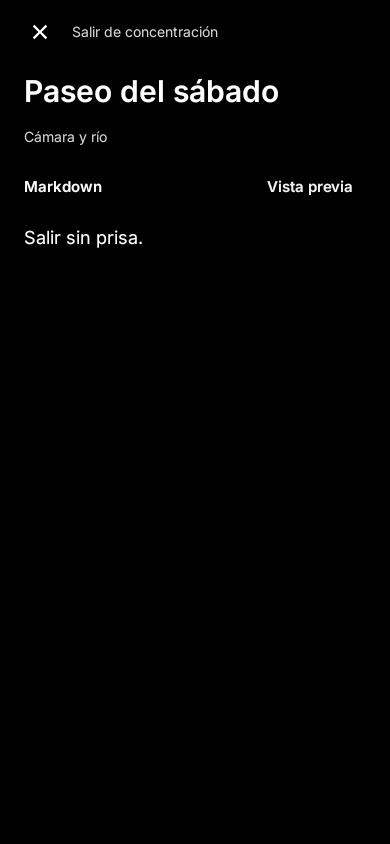
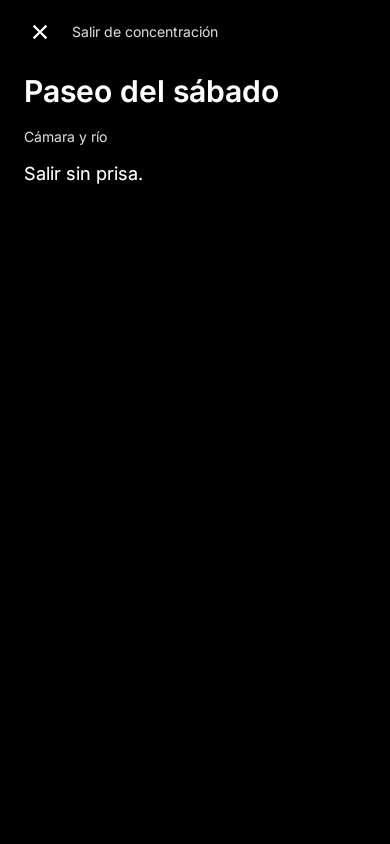
docs: document restored editor anchored FAB and realme verification

Changed region(s): [[0.0615, 0.1848, 0.3692, 0.2464], [0.0615, 0.2773, 0.3692, 0.3081], [0.6769, 0.2156, 0.8923, 0.2464]]

diff --git a/docs/guia-de-uso.md b/docs/guia-de-uso.md
@@ -13,7 +13,7 @@ Clean Mind permite guardar ideas y apuntes personales en Android. No necesitas u
 | Editor | Título, subtítulo opcional, cuerpo de la nota, estado de guardado y acciones. |
 | Ajustes | Selección de apariencia e información sobre almacenamiento y recordatorios. |
 
-El botón flotante **+** abre **Tu libreta**: Inicio, Notas, Recordar, Buscar, Nueva nota y Nuevo recordatorio. Un doble toque en la lupa abre Buscar con el campo enfocado para escribir. La cabecera se oculta al bajar y reaparece al llegar al inicio; el engranaje abre Ajustes.
+El botón flotante **+** despliega encima de sí mismo las acciones Inicio, Notas, Recordar, Buscar, Nueva nota y Nuevo recordatorio. El botón gira a **×** para cerrarlas; Volver también cierra el despliegue sin cambiar de pantalla. Un doble toque en la lupa abre Buscar con el campo enfocado para escribir. La cabecera se oculta al bajar y reaparece al llegar al inicio; el engranaje abre Ajustes.
 
 ## Crear una nota
 
@@ -25,7 +25,7 @@ El botón flotante **+** abre **Tu libreta**: Inicio, Notas, Recordar, Buscar, N
 
 También puedes crear la primera nota desde el botón del estado vacío.
 
-El editor guarda después de aproximadamente 600 ms sin nuevos cambios. Si vuelves con cambios válidos pendientes, intenta guardarlos antes de cerrar. La fila de formato permanece visible sobre el teclado; el botón de ajustes de formato abre las opciones adicionales.
+El editor guarda después de aproximadamente 600 ms sin nuevos cambios. Si vuelves con cambios válidos pendientes, intenta guardarlos antes de cerrar. La acción **Aa · Selecciona texto para dar formato** muestra las herramientas del editor normal.
 
 ## Entender el guardado
 
@@ -121,34 +121,35 @@ Las notas se guardan localmente y se pueden consultar sin conexión. La aplicaci
 
 El manifiesto permite copias de seguridad del sistema. Por tanto, «sin sincronización propia» no equivale a garantizar que Android nunca respalde los datos. Consulta [Datos y migraciones](datos-y-migraciones.md) para conocer la configuración implementada.
 
-El historial de pruebas físicas está en [Pruebas](pruebas.md). La revisión nueva de FAB, Markdown y cuadrícula está validada localmente; el realme se desconectó antes de instalar esta versión.
+El historial de pruebas físicas está en [Pruebas](pruebas.md). Consulta la revisión de restauración del editor, FAB desplegable y cuadrícula en [Pruebas](pruebas.md).
 
 [Índice de documentación](README.md).
 
 ## Formato y fotografías
 
-El cuerpo se edita como Markdown, con resaltado de sintaxis y **Vista previa** para leer el resultado. **Editar Markdown** vuelve al texto sin modificarlo ni borrar el historial de la sesión. La barra muestra directamente negrita, cursiva, subrayado y listas; deslízala horizontalmente para acceder a los demás botones. **Más formato y espaciado** abre un único panel con:
+Pulsa **Aa · Selecciona texto para dar formato** en el editor para mostrar la fila **H₁, H₂, Aa, negrita, cursiva, subrayado y borrar formato**. La **×** cierra esa fila. Las opciones de tachado, alineación, sangría y espaciado están en **⋮ → Formato y espaciado**. Selecciona una palabra o un fragmento antes de cambiarlo. Sin selección, el formato se aplica al párrafo actual cuando contiene texto.
 
-- Encabezados H1–H6 y texto normal.
-- Negrita, cursiva, subrayado mediante `<u>`, tachado y borrado del formato seleccionado.
-- Listas con viñetas, numeradas y tareas `- [ ]` / `- [x]`; también se conserva la lista de casillas independiente de las notas antiguas.
-- Código en línea, bloques de código, citas, enlaces con texto y dirección, tablas y separadores.
-- Sangría, alineación global de la nota, interlineado, espacio adicional entre líneas y separación entre párrafos.
+- Negrita, cursiva, subrayado y tachado. Los colores siguen el tema de la app.
+- Tamaños de título, subtítulo y texto normal.
+- Alineación izquierda, centro o derecha y sangría.
+- Listas con viñetas o numeradas sobre las líneas seleccionadas.
+- **Casilla**: añade una casilla al párrafo del cursor; vuelve a pulsar para marcarla o desmarcarla.
+- Interlineado de 1 a 2, espacio adicional entre líneas y separación entre párrafos. Estos ajustes de espaciado afectan a toda la nota.
+- **Sin formato** elimina las marcas del fragmento seleccionado; no restablece los ajustes globales de espaciado.
+- **Deshacer/Rehacer** funciona durante la sesión del editor; el historial no se guarda al cerrar.
 
-Puedes escribir la sintaxis directamente. Intro continúa viñetas, números, tareas o citas; un elemento vacío termina la lista. Las tareas nuevas continúan sin marcar. Dentro de bloques de código no se continúan listas. **Deshacer/Rehacer** está en **⋮** y funciona durante la sesión.
-
-Abrir una nota antigua no la reescribe: se presenta una proyección compatible con Markdown que conserva texto, estilos básicos, casillas, adjuntos y metadatos. El documento pasa a Markdown cuando realizas una modificación. Las alineaciones por fragmento antiguas no tienen un equivalente portátil en Markdown; puedes aplicar una alineación global desde el panel.
-
-**Imagen** abre las opciones para elegir una foto, capturarla o pegarla desde una URI accesible del portapapeles. Los enlaces de imágenes remotas escritos en Markdown se muestran como referencias; no se descargan imágenes de Internet. Los adjuntos locales siguen visibles e incluidos en el PDF.
+En **+**, **Añadir imagen** abre el selector y **Hacer foto** permite tomar una fotografía con una aplicación de cámara instalada. **Pegar imagen** y el menú nativo de pegado aceptan imágenes que el portapapeles exponga mediante una URI accesible. No descargan enlaces web como imágenes.
 
 Las imágenes se copian como JPEG privados de la app, con reducción de resolución y corrección de orientación EXIF. Aparecen después del texto y las casillas y pueden quitarse o moverse hacia arriba desde su menú **⋮**. Quitar un adjunto de una nota no borra la fotografía original de la galería. Los archivos privados que queden sin referencia todavía no tienen limpieza automática.
 
-No hay OCR, escaneo de documentos, dibujo, justificación ni posicionamiento de los adjuntos entre palabras. Las tablas se representan como texto monoespaciado. Pegar varios párrafos conserva el texto pegado.
+No hay OCR, escaneo de documentos, tablas, dibujo, justificación ni posicionamiento de imágenes entre palabras. Las listas son texto editable: Intro continúa las viñetas, casillas o el siguiente número. Intro sobre un elemento vacío termina la lista. Pegar varios párrafos conserva el texto pegado.
 
 La referencia visual de esta rama es el archivo Figma. Consulta [UI de Figma](figma-ui.md) para las pantallas, recursos, funciones y límites de comparación.
 
 El estado de guardado se consulta en **⋮**; los errores también aparecen en un aviso. Las vistas previas de `EditNotePreviews.kt` permiten revisar claro, oscuro y texto grande desde Android Studio sin instalar la app.
 
+
+Las notas que se hubieran guardado en Markdown se abren en el editor normal con texto y formato básico, sin mostrar código Markdown. Los destinos de enlaces se conservan visibles en el texto. Abrirlas no escribe cambios; una edición posterior guarda el documento normal, conservando adjuntos, casillas y metadatos.
 
 ## Fijado, archivo y concentración
 

diff --git a/docs/pruebas.md b/docs/pruebas.md
@@ -44,12 +44,12 @@ Los filtros mostrados corresponden a las clases presentes en el repositorio.
 | `DestinationTest` | 1 | Serialización y deserialización de destinos con argumentos tipados. |
 | `DateUtilsTest` | 2 | Agrupación de fechas de años distintos y detección de hoy/ayer. |
 | `RichEditorTest` | 12 | Compatibilidad con texto antiguo, serialización, reapertura con negrita, deshacer/rehacer, limpieza parcial, listas, casillas, espaciado, color con selección conservada y estado de la barra y continuación/salida de listas con Intro, subtítulos y conservación de metadatos al deshacer y disponibilidad del campo nativo para accesibilidad. |
-| `MarkdownEditorTest` | 7 | Proyección sin escritura de documentos antiguos, CommonMark con tablas/tareas/código y estilos anidados, enlaces y HTML literal, continuación/salida de listas, selección, deshacer con metadatos y texto legible para buscar/compartir. |
+| `MarkdownCompatibilityTest` | 5 | Documentos normales sin cambios, lectura de documentos Markdown como texto con formato conservando metadatos y destinos de enlaces, estilos/tablas/tareas anteriores, HTML literal y texto legible para buscar/compartir. |
 | `ExampleUnitTest` | 1 | Prueba aritmética de ejemplo del proyecto; no valida funcionalidad de Clean Mind. |
 | `ReminderExportTest` | 5 | Repetición y serialización, programación/recuperación/cancelación de alarmas, TXT UTF-8 y paginación visual de exportación. |
-| `DesignUiTest` | 18 | Capturas locales, privacidad de previews, compartir con pulsación larga, búsqueda/cuadrícula, concentración, completado, ajustes, selección de fecha/hora y formulario independiente con confirmación al descartar y filtrado/movimiento de notas entre carpetas y exclusión de Volver en destinos ocultos, carpetas en cuadrícula y ausencia de búsqueda en Notas y botones del editor sin palabras partidas ni truncadas a 320 dp con fuente 1.35; ocultación al descender, permanencia oculta al invertir el scroll a mitad de la lista y reapertura al llegar al inicio, conservando los límites del contenido fuera de las barras. |
+| `DesignUiTest` | 19 | Capturas locales, privacidad de previews, compartir con pulsación larga, búsqueda/cuadrícula, concentración, completado, ajustes, selección de fecha/hora y formulario independiente con confirmación al descartar y filtrado/movimiento de notas entre carpetas y exclusión de Volver en destinos ocultos, carpetas en cuadrícula y ausencia de búsqueda en Notas y botones del editor sin palabras partidas ni truncadas a 320 dp con fuente 1.35; ocultación al descender, permanencia oculta al invertir el scroll a mitad de la lista y reapertura al llegar al inicio, conservando los límites del contenido fuera de las barras. |
 
-Total actual: **80 pruebas locales**, de las cuales una es el ejemplo aritmético original. Esta cifra describe la suite actual y debe revisarse al añadir o retirar casos; no es un porcentaje de cobertura de código.
+Total actual: **79 pruebas locales**, de las cuales una es el ejemplo aritmético original. Esta cifra describe la suite actual y debe revisarse al añadir o retirar casos; no es un porcentaje de cobertura de código.
 
 Las pruebas de ViewModel usan `kotlinx-coroutines-test` para controlar la ejecución y el tiempo virtual. `FakeNoteRepository` permite simular lentitud, errores y cambios observables.
 
@@ -189,3 +189,14 @@ La regresión de scroll sigue comprobando ocultación al bajar y reapertura solo
 El realme estuvo conectado al leer «To Dos» mediante una copia privada de la base. Después dejó de aparecer tanto en `adb devices` como en el descubrimiento mDNS. No se instaló ni se probó físicamente esta revisión, ni se modificó la nota original. Las imágenes actualizadas de `docs/ui-preview/` son capturas sintéticas de Robolectric, con datos de prueba.
 
 Resultado final: **80 pruebas locales superadas**, sin fallos, errores ni omisiones. `assembleDebug`, `assembleRelease`, `lintDebug` y `lintRelease` correctos. El formateador de Android Studio revisó 98 archivos. Se corrigió el helper de capturas JVM para invalidar las capas cacheadas de Compose antes de dibujar en Canvas; esto evita documentar capturas incompletas y no cambia el código de la app.
+
+
+## Correcciones: editor normal, FAB anclado y cuadrícula
+
+El editor vuelve al formato visual anterior. Se mantiene lectura de documentos Markdown existentes y se comprueba que abrirlos no altera el contenido almacenado. La prueba de UI verifica la ausencia de controles Markdown y la disponibilidad del formato normal.
+
+El FAB presenta sus seis acciones en la propia pantalla. La regresión comprueba que aparecen encima del botón, que este conserva su posición, que no hay un diálogo y que Volver cierra el menú. Se conservan las dos acciones de creación y la búsqueda con doble toque.
+
+La regresión de Home usa ahora un ancho de 360 dp, el ancho lógico del realme (1080 px y 480 dpi), y verifica con coordenadas la distribución en dos columnas y el cambio real a una columna. El tamaño anterior de celda de 156 dp solo permitía una columna en ese dispositivo; pasa a 128 dp.
+
+Resultado: **79 pruebas locales superadas**, sin fallos ni omisiones; compilaciones debug/release y lint de ambas variantes correctos. Se instaló el APK en el realme RMX3370 mediante USB y se verificaron la cuadrícula (tarjetas de 450 px) frente a agenda (936 px), el despliegue anclado al FAB, su cierre con Volver, la creación de un borrador vacío con editor normal, la apertura del formato visual y el foco de búsqueda con doble toque. El borrador se cerró sin contenido. La comparación de las 12 notas y la carpeta antes y después confirmó que todos sus campos permanecen idénticos. Las capturas del repositorio siguen siendo sintéticas; las capturas privadas del teléfono no se publican.

diff --git a/docs/arquitectura.md b/docs/arquitectura.md
@@ -164,7 +164,7 @@ La revisión arquitectónica del 23 de noviembre de 2026 utilizó estas fuentes 
 
 ## Editor enriquecido
 
-El cuerpo del editor integra `RichNoteEditor`, un EditText nativo dentro de Compose para mantener selección y menú de copiar/pegar. `NoteDocument` es el formato serializable sin dependencia de Android; los documentos antiguos conservan sus rangos y el editor actual utiliza texto fuente Markdown. `RichEditorContent` integra el campo nativo; `RichEditorController` conserva exclusivamente estado de UI (selección, historial disponible y resultados de galería/cámara). `MarkdownFormatBar` presenta herramientas visibles y un panel de formato y espaciado; `NoteImageStrip` presenta los adjuntos. El documento sigue siendo propiedad del ViewModel y todas las modificaciones viajan por `EnteredContent`. `NoteImages` encapsula la copia y normalización de los archivos en el almacenamiento privado. La nota resultante continúa pasando por el evento de contenido y el autoguardado del ViewModel.
+El cuerpo del editor integra `RichNoteEditor`, un EditText nativo dentro de Compose para mantener selección y menú de copiar/pegar. `NoteDocument` es el formato serializable sin dependencia de Android; los spans nativos se convierten a rangos de formato al editar. `RichEditorContent` integra el campo nativo; `RichEditorController` conserva exclusivamente estado de UI (selección, historial disponible y resultados de galería/cámara). `EditorBottomBar` presenta las herramientas de formato, inserción y espaciado; `NoteImageStrip` presenta los adjuntos. El documento sigue siendo propiedad del ViewModel y todas las modificaciones viajan por `EnteredContent`. `NoteImages` encapsula la copia y normalización de los archivos en el almacenamiento privado. La nota resultante continúa pasando por el evento de contenido y el autoguardado del ViewModel.
 
 
 ## Avisos y exportaciones
@@ -184,10 +184,10 @@ Las carpetas usan la misma capa de datos, con `FolderEntity` y una clave externa
 `AppSurfaces.kt` centraliza las superficies tonales Material 3 y las hojas inferiores. El fondo se dibuja uniformemente desde el tema; ya no se captura ni se desenfoca mediante Haze. Las carpetas y las notas comparten una cuadrícula perezosa con spans distintos, y lista/cuadrícula usan contenedores separados durante el fundido. La colección científica se inicializa desde una implementación exclusiva de debug; el código release no añade ejemplos.
 
 
-## Markdown
+## Compatibilidad con documentos Markdown anteriores
 
-`MarkdownText` centraliza el parser CommonMark y las extensiones de tablas, tachado y tareas. Se fija commonmark-java 0.32.0, compatible con el mínimo API 24 de la app, según sus [notas de versión](https://github.com/commonmark/commonmark-java/releases/tag/v0.32.0) y [documentación](https://github.com/commonmark/commonmark-java).
+La pantalla vuelve al editor normal con `RichNoteEditor` y `EditorToolbar`. `RichDocumentCompatibility.editable` proyecta los documentos que ya estaban guardados en Markdown a texto normal y rangos de estilo. Mantiene imágenes, casillas y metadatos y conserva las direcciones de enlaces en el texto. Abrirlos no provoca una escritura; la primera edición del contenido guarda el formato normal.
 
-`MarkdownEditing` aplica transformaciones puras sobre texto y selección. `RichNoteEditor` mantiene IME, portapapeles nativo, resaltado e historial; `MarkdownRendering`, compartido por vista previa y PDF, produce spans nativos. No hay WebView ni ejecución de HTML. Los enlaces admiten HTTP, HTTPS y correo; los adjuntos continúan en almacenamiento privado. El editor nativo sigue compuesto al alternar la vista previa para conservar selección e historial.
+`MarkdownText` y `MarkdownRendering` permanecen únicamente como lectores para búsqueda, exportación y compatibilidad. No hay edición de sintaxis, vista previa ni comandos Markdown en la interfaz. Se retiró `MarkdownEditing`. El esquema Room continúa en versión 4.
 
-El booleano `NoteDocument.markdown`, con valor anterior `false`, se serializa dentro del contenido y no cambia el esquema Room 4. `MarkdownText.editable` proyecta los documentos antiguos sin persistir cambios al abrirlos. Búsqueda, TXT y copias de carpeta utilizan una representación legible; el PDF conserva los formatos soportados.
+`NotebookFab` despliega acciones sobre el propio botón, en la misma composición y sin `ModalBottomSheet`. Su altura disponible limita el despliegue y las acciones pueden desplazarse. Volver cierra el menú antes de navegar. `HomeAgenda` utiliza celdas adaptables de 128 dp para que la cuadrícula tenga dos columnas a 320–360 dp, además de conservar estados independientes y separadores por creación.

diff --git a/docs/figma-ui.md b/docs/figma-ui.md
@@ -7,7 +7,7 @@ Referencia: [Clean Mind, archivo de Figma](https://www.figma.com/design/qokv6yTT
 ## Implementación
 
 - Inicio con búsqueda y cuadrícula adaptable, con opción de agenda vertical: separador horizontal y fecha completa, sin círculos ni etiquetas laterales y todas las notas creadas en ese día. No se limita a diez notas.
-- Cabecera opaca con ocultación al bajar y reapertura al llegar al inicio. Un FAB abre la navegación y la creación; doble toque en la lupa enfoca la búsqueda. Se mantienen colores y tipografía del estilo actual.
+- Cabecera opaca con ocultación al bajar y reapertura al llegar al inicio. Un FAB despliega la navegación y la creación desde el propio botón; doble toque en la lupa enfoca la búsqueda. Se mantienen colores y tipografía del estilo actual.
 - Filtros Todas, Fijadas, Con imágenes y Archivadas; vistas de lista y cuadrícula.
 - Tarjetas de título, subtítulo y metadatos. Se mantiene la petición anterior de ocultar el cuerpo en Home: las vistas previas de la referencia reciben el subtítulo independiente, no una extracción del contenido.
 - Editor con guardado visible, fijado, archivo, deshacer archivo, captura de listas/imágenes y hoja de recordatorio. Las herramientas de formato, compartir y exportar permanecen disponibles.
@@ -81,3 +81,8 @@ La cabecera principal se ajusta después a `exitUntilCollapsed`: se oculta al de
 ## Cambios de la nota «To Dos»
 
 Se implementaron en orden numérico: limpieza de pantallas/recursos sin uso, FAB con los destinos y creación anteriores, búsqueda directa con doble toque, editor Markdown con vista previa, formato frecuente visible y cuadrícula de Inicio. La cuadrícula mantiene los separadores por creación y el modo agenda. Estos cambios posteriores a Figma son intencionados.
+
+
+## Corrección tras revisar «To Dos»
+
+Se restaura el editor normal y su formato visual. La compatibilidad de lectura conserva las notas guardadas en Markdown, sin mantener su editor de sintaxis. El FAB despliega seis acciones ancladas encima del botón y Volver cierra el despliegue. La celda mínima de Home pasa de 156 a 128 dp: en los 360 dp del realme la vista de cuadrícula muestra dos columnas y el modo agenda una, manteniendo las fechas de creación.

diff --git a/docs/glass-ui.md b/docs/glass-ui.md
@@ -10,7 +10,7 @@ Las cabeceras conservan el fondo opaco del tema para impedir superposiciones. En
 
 El contenido del cuaderno aplica el padding medido por `Scaffold` y consume esos insets antes de componer listas, cuadrículas y recordatorios. Ese espacio se adapta a la altura visible de la cabecera y mantiene el viewport fuera de las barras. La franja de estado continúa protegida por el color del tema. La fecha de cada grupo conserva su semántica de encabezado y utiliza 16 sp y peso seminegrita.
 
-La navegación se concentra ahora en `NotebookFab`: un botón flotante Material 3 abre la hoja con destinos y creación. No hay barra inferior en la libreta. Las listas reservan 96 dp al final para mantener las últimas tarjetas fuera del botón; el editor conserva sus herramientas inferiores.
+La navegación se concentra ahora en `NotebookFab`: un botón flotante Material 3 despliega sus acciones encima del propio botón, sin abrir una hoja. No hay barra inferior en la libreta. Las listas reservan 96 dp al final para mantener las últimas tarjetas fuera del botón; el editor conserva sus herramientas inferiores.
 
 Todas las hojas inferiores de la app pasan por `AppBottomSheet`. El propio `ModalBottomSheet` pinta su contenedor, incluida la separación de navegación del sistema. Así no queda una franja transparente que deje ver la barra de la app por debajo. Se conserva el manejo de insets de Material 3 y se desactiva el scrim adicional de contraste de navegación en la ventana de la hoja desde API 29.
 

diff --git a/docs/cambios-clean-mind.md b/docs/cambios-clean-mind.md
@@ -38,3 +38,8 @@ Se adopta la alternativa Material 3 solicitada para sustituir el cristal anterio
 ## 26 de noviembre · Nota «To Dos»
 
 Los seis puntos se implementaron por orden numérico y con commits por funcionalidad: retirada de pantallas/recursos sin uso; navegación y creación mediante FAB; búsqueda enfocada al pulsar dos veces la lupa; fuente Markdown con vista previa y exportación compatible; herramientas de formato visibles y panel único; cuadrícula de Inicio con alternativa de agenda. Se conservan las fechas de creación, la privacidad de las tarjetas y el scroll de cabecera hasta el inicio. La revisión termina con 80 pruebas locales, compilaciones debug/release y lint correctos. No se actualizó el realme al perderse la conexión ADB después de leer la nota.
+
+
+## Corrección posterior: editor y acciones flotantes
+
+Se restaura el editor normal anterior, manteniendo lectura de notas guardadas en Markdown sin reescribirlas al abrir. El FAB despliega sus seis acciones encima del mismo botón, con cierre desde × o Volver. La cuadrícula de Home baja su celda mínima de 156 a 128 dp para mostrar dos columnas en el realme de 360 dp; conserva el modo agenda de una columna. Las pruebas locales quedan en 79 casos y pasan las compilaciones debug/release y lint de ambas variantes.

diff --git a/docs/datos-y-migraciones.md b/docs/datos-y-migraciones.md
@@ -153,3 +153,6 @@ El nombre visible y el proyecto Gradle pasan a Clean Mind. Se mantienen el paque
 ## Documentos Markdown · 26 de noviembre de 2026
 
 El contenido incorpora `markdown: Boolean = false` y `textAlignment: Int = 0` como campos opcionales del documento JSON. Room continúa en versión 4. Los lectores siguen aceptando documentos anteriores y texto sin marcador. La apertura proyecta el texto antiguo para editarlo, sin ejecutar una escritura. El primer cambio conserva casillas, imágenes, subtítulo, creación, fijado, archivo y recordatorio, y guarda la fuente Markdown. El interlineado y la alineación global son metadatos de presentación; TXT utiliza texto legible y no constituye una copia restaurable de estos ajustes.
+
+
+La corrección posterior retira el editor Markdown. Los campos `markdown` y `textAlignment` se conservan para leer notas ya almacenadas. `RichDocumentCompatibility` transforma solo la presentación y no actualiza Room al abrirlas; una edición posterior de su contenido utiliza texto y rangos normales. Las casillas y los adjuntos mantienen sus identificadores.

diff --git a/README.md b/README.md
@@ -6,10 +6,10 @@ La interfaz está construida con Jetpack Compose y Material 3. La arquitectura u
 
 ## Funciones
 
-- Crear, editar y eliminar notas con Markdown, vista previa, listas, tablas, imágenes y deshacer/rehacer.
+- Crear, editar y eliminar notas con formato visual, listas, imágenes y deshacer/rehacer.
 - Guardar automáticamente mientras escribes y mostrar el estado de guardado.
 - Consultar la actividad por fecha o cambiar a una cuadrícula adaptable.
-- Navegar y crear desde un FAB; doble toque en la lupa para buscar directamente por título y contenido.
+- Navegar y crear desde las opciones que se despliegan sobre el propio FAB; doble toque en la lupa para buscar directamente por título y contenido.
 - Organizar notas en [carpetas](docs/carpetas.md) en cuadrícula, con creación, renombrado y movimiento.
 - Crear recordatorios con formulario propio de tarea, fecha y hora y guardado explícito.
 - Compartir texto mediante el selector de aplicaciones de Android.
